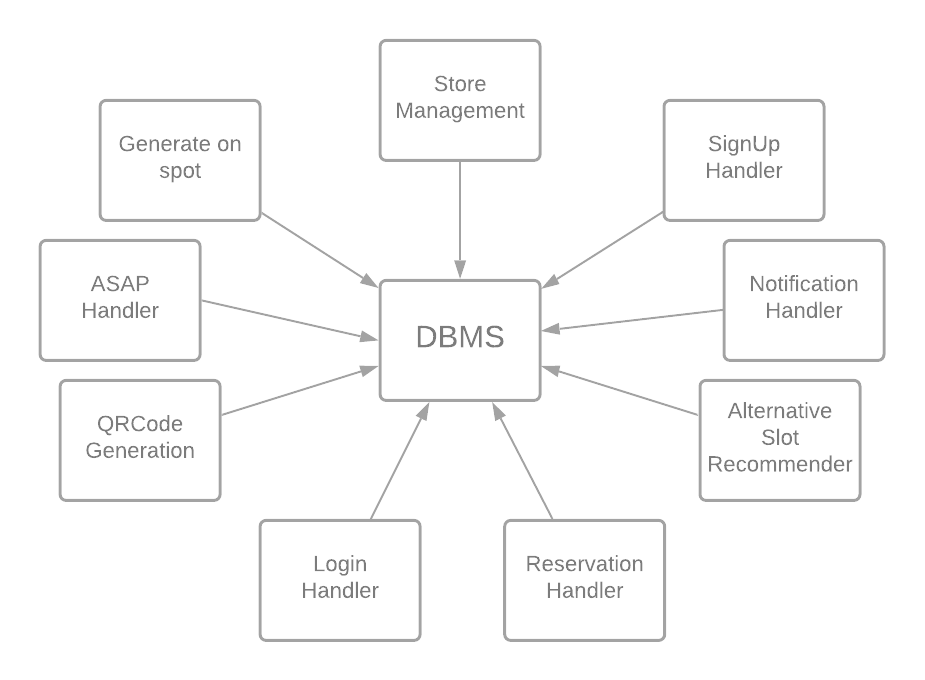
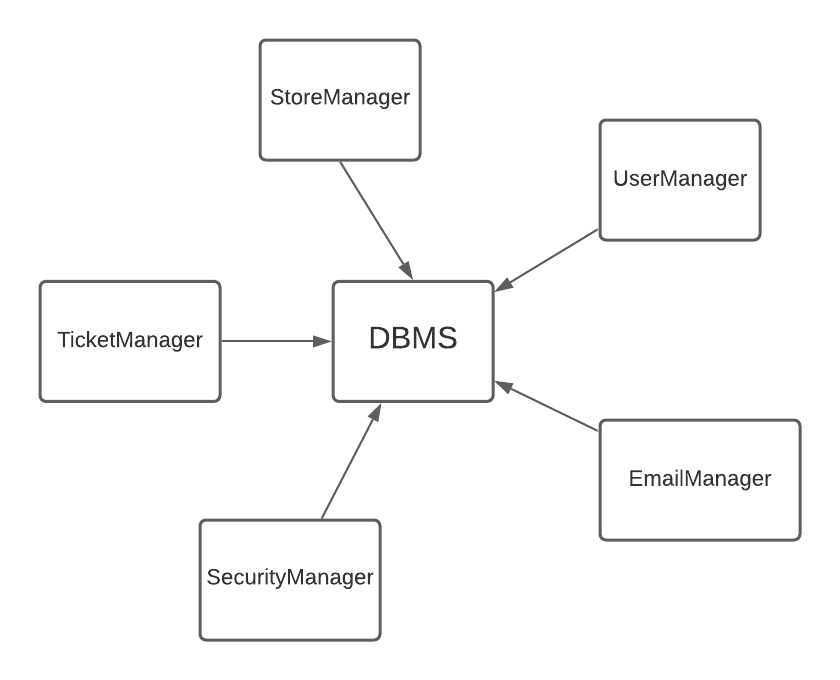
fix: design architecture

diff --git a/DD/dd.tex b/DD/dd.tex
@@ -110,13 +110,13 @@ Finally, \textbf{Store Attendants} can sign up with their personal store code in
 \begin{itemize}
     \item January 9, 2021: version 1.0 (first release)
     \item \today: version 1.1: \begin{enumerate}
-        \item Fixed typos;
-        \item Updated Sequence Diagram and related descriptions;
-        \item Updated Interface Diagram;
-        \item Updated Component Diagram;
-        \item Updated ER Diagram;
-        \item Detailed description ORM, document's scope, components.
-    \end{enumerate}
+              \item Fixed typos;
+              \item Updated Sequence Diagram and related descriptions;
+              \item Updated Interface Diagram;
+              \item Updated Component Diagram;
+              \item Updated ER Diagram;
+              \item Detailed description ORM, document's scope, components.
+          \end{enumerate}
 \end{itemize}
 
 \subsection{Reference Documents}
@@ -247,7 +247,7 @@ Each device has its own Operating System where the software runs. The tiers in t
 
 \subsection{Runtime View}
 All the following diagrams represent the runtime view from the mobile app's perspective, in order to increase readability, the web app's perspective isn't shown as it only differs from the other one by using the web server's module before calling the Application Server.\\
-Every interface use REST API through HTTP GET or/and POST calls using urls, where the " \textbf{..} " before every path it's to be intended as the IP address + port of the server or the domain. 
+Every interface use REST API through HTTP GET or/and POST calls using urls, where the " \textbf{..} " before every path it's to be intended as the IP address + port of the server or the domain.
 \subsubsection{Sign Up}
 \begin{figure}[H]
     \begin{center}
@@ -613,9 +613,9 @@ According to the table\ref{implementation_precedences} we decided to implement t
 \end{itemize}
 
 \subsection{Clarification on component integration}
-In this section there will be a brief description about how the components are integrated and communicate, in order to build the entire S2B.
+In this section there is be a description about how the components are integrated and communicate, in order to build the entire S2B.
 
-First of all, in figure\ref{components_integration} it is clear that the first component to build is the DBMS, followed by the application components that exploit it.
+First of all, in figure\ref{components_integration} it is clear that the first component to build is the DBMS, followed by the main application components that exploit it.
 
 \begin{center}
     \begin{figure}[H]
@@ -623,6 +623,7 @@ First of all, in figure\ref{components_integration} it is clear that the first c
         \caption{Components Integration}\label{components_integration}
     \end{figure}
 \end{center}
+
 
 After this, we have to integrate the API communication between the S2B and the external services that will be used, which are some \textit{IdP} providers, as explained in figure\ref{external_services}.
 
